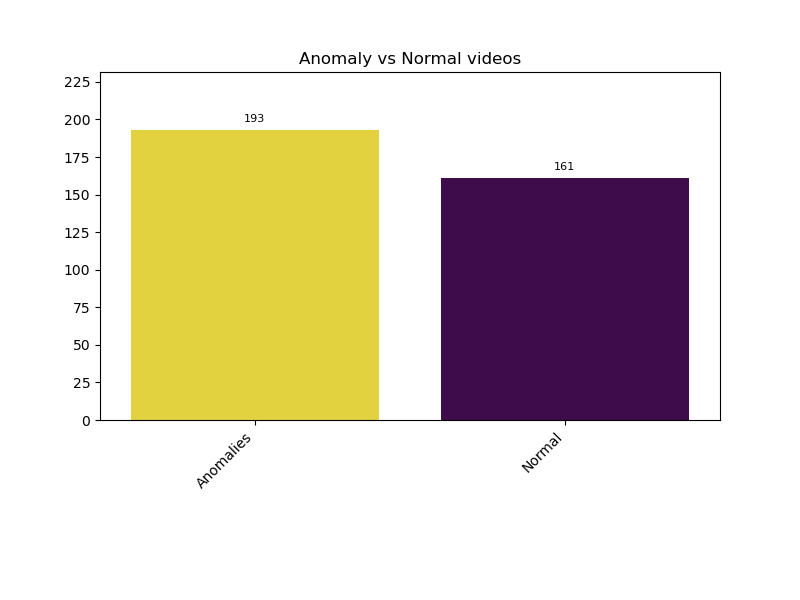
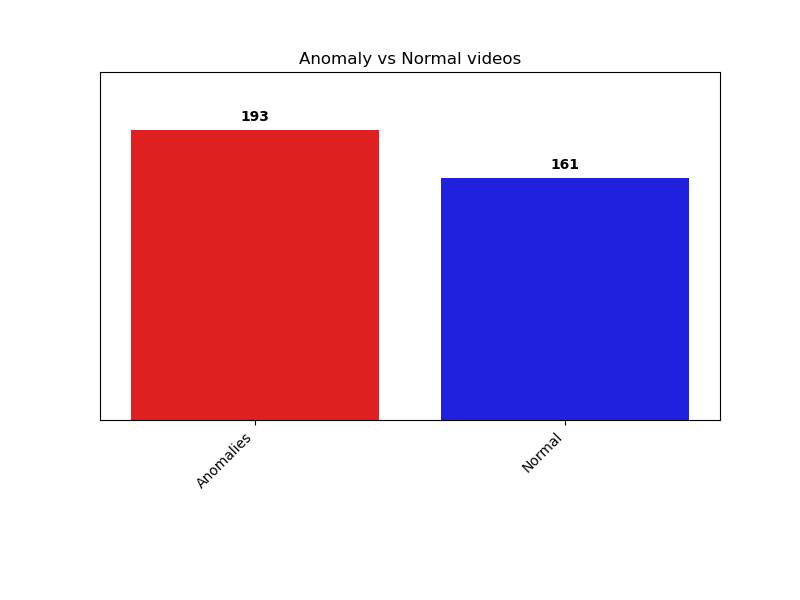
filter data and crawl data

diff --git a/AI/src/utils/visualize_dataset.py b/AI/src/utils/visualize_dataset.py
@@ -9,11 +9,19 @@ from matplotlib.ticker import MaxNLocator
 from .ANSIColor import ANSIColor
 from ..data.dataset import VideoFolderDataset
 
-
+# Define the public functions available for import
 __all__ = ["prompt_dataset_statistics", "plot_dataset_statistics"]
 
-
 def prompt_dataset_statistics(stats: Dict[str, Any]) -> str:
+    """
+    Generates a formatted string displaying dataset statistics.
+
+    Args:
+        stats (Dict[str, Any]): A dictionary containing dataset statistics.
+
+    Returns:
+        str: A formatted string with dataset statistics.
+    """
     prompt = f"""{'-' * 40}  {ANSIColor().CYAN}DATASET STATISTICS{ANSIColor().RESET}  {'-' * 40}
 DATASET STATISTICS
 Total number of videos: {stats['total_samples']}
@@ -23,6 +31,7 @@ Number of videos per class:
     for class_name, count in stats['class_count'].items():
         prompt += f"  - {class_name}: {count} videos\n"
     
+    # Calculate average FPS, resolution, and duration
     avg_fps = np.mean(list(stats['fps_count'].keys())) if stats['fps_count'] else 0
     avg_resolution = (
         int(np.mean([res[0] for res in stats['resolution'].keys()])),
@@ -41,53 +50,57 @@ Average duration: {avg_duration:.2f} seconds
 """
     return prompt
 
-
 def plot_dataset_statistics(dataset: VideoFolderDataset, **kwargs) -> None:
-    """Vẽ các biểu đồ thống kê từ dataset."""
-    class_counts = defaultdict(int)  # Số lượng video theo từng lớp
-    fps_list = []  # Danh sách FPS của video
-    durations = []  # Danh sách thời gian video
-    resolutions = []  # Danh sách độ phân giải video
+    """
+    Plots various dataset statistics, including class distribution, anomaly comparison, and duration distribution.
 
-    # Duyệt qua dataset và thu thập thông tin
+    Args:
+        dataset (VideoFolderDataset): The dataset containing video samples.
+        **kwargs: Additional parameters for customization.
+    """
+    class_counts = defaultdict(int)  # Store the number of videos per class
+    fps_list = []  # Store the FPS values
+    durations = []  # Store video durations
+    resolutions = []  # Store video resolutions
+
+    # Iterate through the dataset to collect statistics
     for stream_info, video_class in dataset:
-        class_name = dataset.classes[video_class]  # Lấy tên lớp video
+        class_name = dataset.classes[video_class]  # Get the class name
         class_counts[class_name] += 1
 
-        # Lấy thông tin về FPS, số frame, độ phân giải
+        # Extract video properties
         fps = getattr(stream_info, "frame_rate", 0)
         num_frames = getattr(stream_info, "num_frames", 0)
         resolution = (getattr(stream_info, "width", 0), getattr(stream_info, "height", 0))
 
-        # Tính thời gian video (tránh chia cho 0)
+        # Compute video duration (avoid division by zero)
         duration = num_frames / fps if fps > 0 else 0
         fps_list.append(fps)
         resolutions.append(resolution)
         durations.append(duration)
 
-    # Sắp xếp số lượng video theo lớp
+    # Sort class counts in ascending order
     sorted_classes = sorted(class_counts.items(), key=lambda item: item[1])
     sorted_class_names, sorted_class_counts = zip(*sorted_classes)
 
-    # 1. Vẽ biểu đồ số video theo lớp
-    # Lọc bỏ các lớp có chứa "Normal"
+    # 1. Plot the number of videos per class
+    # Filter out classes containing "Normal"
     filtered_classes = [(name, count) for name, count in zip(sorted_class_names, sorted_class_counts) if "Normal" not in name]
 
-    # Tách danh sách sau khi lọc
+    # Extract filtered class names and counts
     filtered_class_names, filtered_class_counts = zip(*filtered_classes) if filtered_classes else ([], [])
 
-    # Vẽ biểu đồ với dữ liệu đã lọc
+    # Plot the filtered data
     draw_bar_chart(list(filtered_class_names),
                list(filtered_class_counts),
-               "Number of Videos per Class",
-               "Class", "Number of Videos",
+               "Videos per Class",
+               "", "Number of Videos",
                {"rotation": 45, "ha": "right"}, None,
                None, {"bottom": 0, "top": max(filtered_class_counts) * 1.2} if filtered_class_counts else {"bottom": 0, "top": 1},
                **kwargs
                )
 
-
-    # 2. So sánh số lượng video bất thường và bình thường
+    # 2. Compare the number of anomaly and normal videos
     anomaly_count = sum(count for cls, count in class_counts.items() if cls != "Normal")
     normal_count = class_counts.get("Normal", 0)
 
@@ -100,20 +113,20 @@ def plot_dataset_statistics(dataset: VideoFolderDataset, **kwargs) -> None:
                    **kwargs
                    )
 
-    # 3. Phân phối độ dài video
-    bins = np.arange(0, 700, 100)  # Chia bins mỗi 100 giây
+    # 3. Plot video duration distribution
+    bins = np.concatenate([np.arange(0, 110, 20), np.arange(200, 800, 100)])
     bin_counts, _ = np.histogram(durations, bins=bins)
     bin_labels = [f"[{bins[i]}, {bins[i + 1]})" for i in range(len(bins) - 1)]
 
     draw_bar_chart(bin_labels, bin_counts.tolist(),
-                   "Duration Distribution",
+                   "Time Distribution",
                    "Seconds", "Number of Videos",
                    {"rotation": 45, "ha": "right"}, None,
                    None, {"bottom": 0, "top": max(bin_counts.tolist()) * 1.2},
                    **kwargs
                    )
-########################################################################################################################
 
+########################################################################################################################
 
 def draw_bar_chart(x: Any, y: Any, title: str,
                    xlabel: str = None, ylabel: str = None,
@@ -122,6 +135,22 @@ def draw_bar_chart(x: Any, y: Any, title: str,
                    force_y_int: bool = False,
                    fpath: str = None
                    ) -> None:
+    """
+    Draws a bar chart using Seaborn and Matplotlib.
+
+    Args:
+        x (Any): X-axis labels.
+        y (Any): Y-axis values.
+        title (str): Title of the chart.
+        xlabel (str, optional): Label for the X-axis. Defaults to None.
+        ylabel (str, optional): Label for the Y-axis. Defaults to None.
+        xticks (dict, optional): X-axis tick properties. Defaults to None.
+        yticks (dict, optional): Y-axis tick properties. Defaults to None.
+        xlim (dict, optional): X-axis limits. Defaults to None.
+        ylim (dict, optional): Y-axis limits. Defaults to None.
+        force_y_int (bool, optional): If True, forces integer values on the Y-axis. Defaults to False.
+        fpath (str, optional): File path to save the plot. Defaults to None.
+    """
     if xticks is None:
         xticks = {}
 
@@ -135,25 +164,32 @@ def draw_bar_chart(x: Any, y: Any, title: str,
         ylim = {}
 
     plt.figure(figsize=(8, 6))
-    ax = sns.barplot(x=x, y=y, hue=y, palette="viridis", legend=False)
+
+    # Giảm độ sáng màu đen bằng cách dùng màu xám nhạt hơn
+    if title == "Anomaly vs Normal videos":
+        colors = ["red", "blue"]  # Đỏ cho bất thường, xanh cho bình thường
+    else:
+        colors = ["#c2c2c2"] * len(y)  # Xám thay vì đen (#808080 là màu xám trung bình)
+
+
+    ax = sns.barplot(x=x, y=y, palette=colors, legend=False)
 
     if force_y_int:
         ax.yaxis.set_major_locator(MaxNLocator(integer=True))
 
-    # Hiển thị số trên thanh, căn chỉnh để tránh đụng vào mép trên
+    # Display values on top of each bar
     for i, value in enumerate(y):
-        ax.text(i, value + max(y) * 0.02, str(value), ha="center", va="bottom", fontsize=8)
+        ax.text(i, value + max(y) * 0.02, str(value), ha="center", va="bottom", fontsize=10, fontweight="bold")
 
     plt.title(title)
-
     plt.xlabel(xlabel)
     plt.ylabel(ylabel)
 
     plt.xticks(**xticks)
-    plt.yticks(**yticks)
+    plt.yticks([])  # Remove Y-axis labels as required
 
     plt.xlim(**xlim)
-    plt.ylim(**ylim)  # Mở rộng trục Y để số liệu không bị che
+    plt.ylim(**ylim)  # Expand Y-axis limits to avoid label overlap
     plt.subplots_adjust(bottom=0.3)
 
     if fpath is not None and os.path.isdir(fpath):
